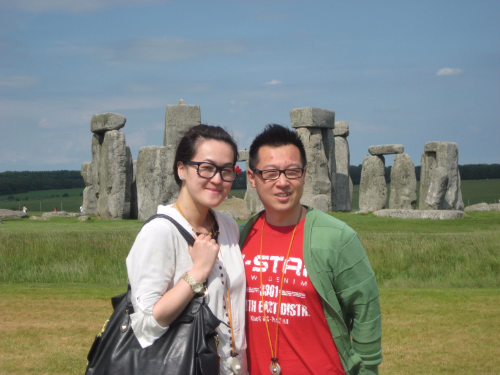
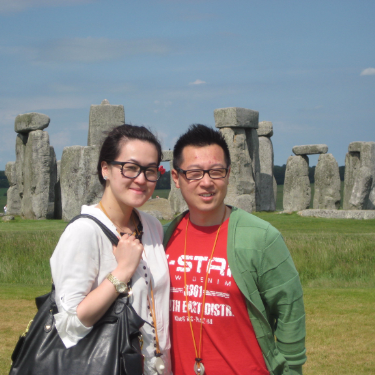
Crop Thumbnails to square size

diff --git a/public/stylesheets/css/wedding.css b/public/stylesheets/css/wedding.css
@@ -66,4 +66,4 @@ body {
     text-transform: none;
     font-size: 18px; }
 
[2 lines of base64/hex data omitted]

diff --git a/public/stylesheets/css/thumbnail.css b/public/stylesheets/css/thumbnail.css
@@ -1,28 +1,51 @@
+.thumbnail-link {
+  position: relative;
+  height: 250px;
+  overflow: hidden; }
+
+.thumbnail-link.portrait {
+  height: auto;
+  width: 250px; }
+
+/*
 .thumbnail-gallery {
-  margin-left: 35px; }
+
+  //Shitty Hack
+  margin-left: 35px;
+
   @media only screen and (min-width: 985px) and (max-width: 1199px) {
-    .thumbnail-gallery {
-      margin-left: 72px; } }
+    margin-left: 72px;
+  }
+
   @media only screen and (min-width: 0px) and (max-width: 984px) {
-    .thumbnail-gallery {
-      margin-left: 25px; } }
-  .thumbnail-gallery a {
+    margin-left: 25px;
+  }
+  //Shitty Hack end
+
+  a {
     position: relative;
     width: 250px;
     height: 250px;
     overflow: hidden;
-    margin: 0 20px 20px 0; }
-  .thumbnail-gallery img {
+    margin: 0 20px 20px 0;
+  }
+
+  img {
     position: absolute;
-    left: 50%;
-    top: 50%;
+    left: $fiftyPercent;
+    top: $fiftyPercent;
     height: 100%;
     width: auto;
-    -webkit-transform: translate(-50%, -50%);
-    -ms-transform: translate(-50%, -50%);
-    transform: translate(-50%, -50%); }
-  .thumbnail-gallery img.portrait {
-    width: 100%;
-    height: auto; }
+    -webkit-transform: $centreTransform;
+    -ms-transform: $centreTransform;
+    transform: $centreTransform;
+  }
 
[1 lines of base64/hex data omitted]
+  img.portrait {
+    width: 100%;
+    height: auto;
+  }
+
+}*/
+
[1 lines of base64/hex data omitted]

diff --git a/public/stylesheets/css/wedding.min.css b/public/stylesheets/css/wedding.min.css
@@ -1,1 +1,1 @@
-.hero h1,.hero p{color:#fff;text-align:center;text-transform:uppercase}*,.hero h1,.hero p{text-transform:uppercase}@font-face{font-family:'Open Sans';font-style:normal;font-weight:400;src:local('Open Sans'),local('OpenSans'),url(../../fonts.gstatic.com/s/opensans/v13/cJZKeOuBrn4kERxqtaUH3aCWcynf_cDxXwCLxiixG1c.ttf) format('truetype')}*{font-family:'Open Sans',sans-serif!important}body{min-width:640px!important}.hero{background:url(/images/test.jpg) center center no-repeat;background-size:cover;height:100vh}.hero:before{margin-top:50px;content:'';position:absolute;top:0;right:0;bottom:0;height:100vh;left:0;z-index:-1;opacity:.3}.hero .intro{padding:3rem;position:relative;top:50%;-webkit-transform:translateY(-50%);-ms-transform:translateY(-50%);transform:translateY(-50%)}.hero h1{font-size:3rem;line-height:1.5em;letter-spacing:-.025em;font-weight:300}.hero p{line-height:1.75em;font-weight:200;font-size:1.5rem;margin-bottom:2rem}@media only screen and (min-width:40.063em){.hero h1,.hero p{text-align:right}.hero h1{padding-top:4.5rem;font-size:5.5rem}.hero p{font-size:2.5rem}}.infostitial{width:66.66%;padding:45px 0;float:none}.infostitial p{font-size:20px}@media only screen and (max-width:40.063em){.infostitial{width:99.99%}}.infostitial a{text-transform:none;font-size:18px}
+.hero h1,.hero p{color:#fff;text-align:center;text-transform:uppercase}*,.hero h1,.hero p{text-transform:uppercase}@font-face{font-family:'Open Sans';font-style:normal;font-weight:400;src:local('Open Sans'),local('OpenSans'),url(../../fonts.gstatic.com/s/opensans/v13/cJZKeOuBrn4kERxqtaUH3aCWcynf_cDxXwCLxiixG1c.ttf) format('truetype')}*{font-family:'Open Sans',sans-serif!important}body{min-width:640px!important}.hero{background:url(/images/hero.jpg) center center no-repeat;background-size:cover;height:100vh}.hero:before{margin-top:50px;content:'';position:absolute;top:0;right:0;bottom:0;height:100vh;left:0;z-index:-1;opacity:.3}.hero .intro{padding:3rem;position:relative;top:50%;-webkit-transform:translateY(-50%);-ms-transform:translateY(-50%);transform:translateY(-50%)}.hero h1{font-size:3rem;line-height:1.5em;letter-spacing:-.025em;font-weight:300}.hero p{line-height:1.75em;font-weight:200;font-size:1.5rem;margin-bottom:2rem}@media only screen and (min-width:40.063em){.hero h1,.hero p{text-align:right}.hero h1{padding-top:4.5rem;font-size:5.5rem}.hero p{font-size:2.5rem}}.infostitial{width:66.66%;padding:45px 0;float:none}.infostitial p{font-size:20px}@media only screen and (max-width:40.063em){.infostitial{width:99.99%}}.infostitial a{text-transform:none;font-size:18px}

diff --git a/public/stylesheets/css/thumbnail.min.css b/public/stylesheets/css/thumbnail.min.css
@@ -1,1 +1,1 @@
-.thumbnail-gallery{margin-left:35px}@media only screen and (min-width:985px) and (max-width:1199px){.thumbnail-gallery{margin-left:72px}}@media only screen and (min-width:0px) and (max-width:984px){.thumbnail-gallery{margin-left:25px}}.thumbnail-gallery a{position:relative;width:250px;height:250px;overflow:hidden;margin:0 20px 20px 0}.thumbnail-gallery img{position:absolute;left:50%;top:50%;height:100%;width:auto;-webkit-transform:translate(-50%,-50%);-ms-transform:translate(-50%,-50%);transform:translate(-50%,-50%)}.thumbnail-gallery img.portrait{width:100%;height:auto}
+.thumbnail-link{position:relative;height:250px;overflow:hidden}.thumbnail-link.portrait{height:auto;width:250px}

diff --git a/public/stylesheets/scss/thumbnail.scss b/public/stylesheets/scss/thumbnail.scss
@@ -1,6 +1,25 @@
 $fiftyPercent: 50%;
 $centreTransform: translate(-50%,-50%);
 
+.thumbnail-img {
+  //max-width: none !important;
+  //height: 100% !important;
+  //width: auto !important;
+}
+
+.thumbnail-link {
+  position: relative;
+  //width: 250px;
+  height: 250px;
+  overflow: hidden;
+}
+
+.thumbnail-link.portrait {
+  height: auto;
+  width: 250px;
+}
+
+/*
 .thumbnail-gallery {
 
   //Shitty Hack
@@ -39,4 +58,4 @@ $centreTransform: translate(-50%,-50%);
     height: auto;
   }
 
-}
+}*/

diff --git a/public/js/es5/lightboxgallery.js b/public/js/es5/lightboxgallery.js
@@ -1,7 +1,6 @@
 'use strict';
 
 function initLightboxGallery() {
-    //	Add a custom filter to recognize images from lorempixel (that don't end with ".jpg" or something similar)
     $.tosrus.defaults.media.image = {
         filterAnchors: function filterAnchors($anchor) {
             return true;

diff --git a/public/js/es5/image-orientation-picker.js b/public/js/es5/image-orientation-picker.js
@@ -5,8 +5,6 @@ function addPortraitClassToImg() {
         var width = $(this).width();
         var height = $(this).height();
 
-        console.log("Width: " + width + " Height: " + height);
-
         if (height > width) {
             $(this).addClass("portrait");
         }

diff --git a/public/js/es6/image-orientation-picker.js b/public/js/es6/image-orientation-picker.js
@@ -3,8 +3,6 @@ function addPortraitClassToImg() {
         var width = $(this).width();
         var height = $(this).height();
 
-        console.log(`Width: ${width} Height: ${height}`);
-
         if (height > width) {
             $(this).addClass("portrait")
         }

diff --git a/public/stylesheets/scss/wedding.scss b/public/stylesheets/scss/wedding.scss
@@ -1,5 +1,5 @@
 @import url(http://fonts.googleapis.com/css?family=Open+Sans);
-$hero-image: url("/images/test.jpg");
+$hero-image: url("/images/hero.jpg");
 $hero-height: 100vh;
 $white: #fff;
 $black: #000;
